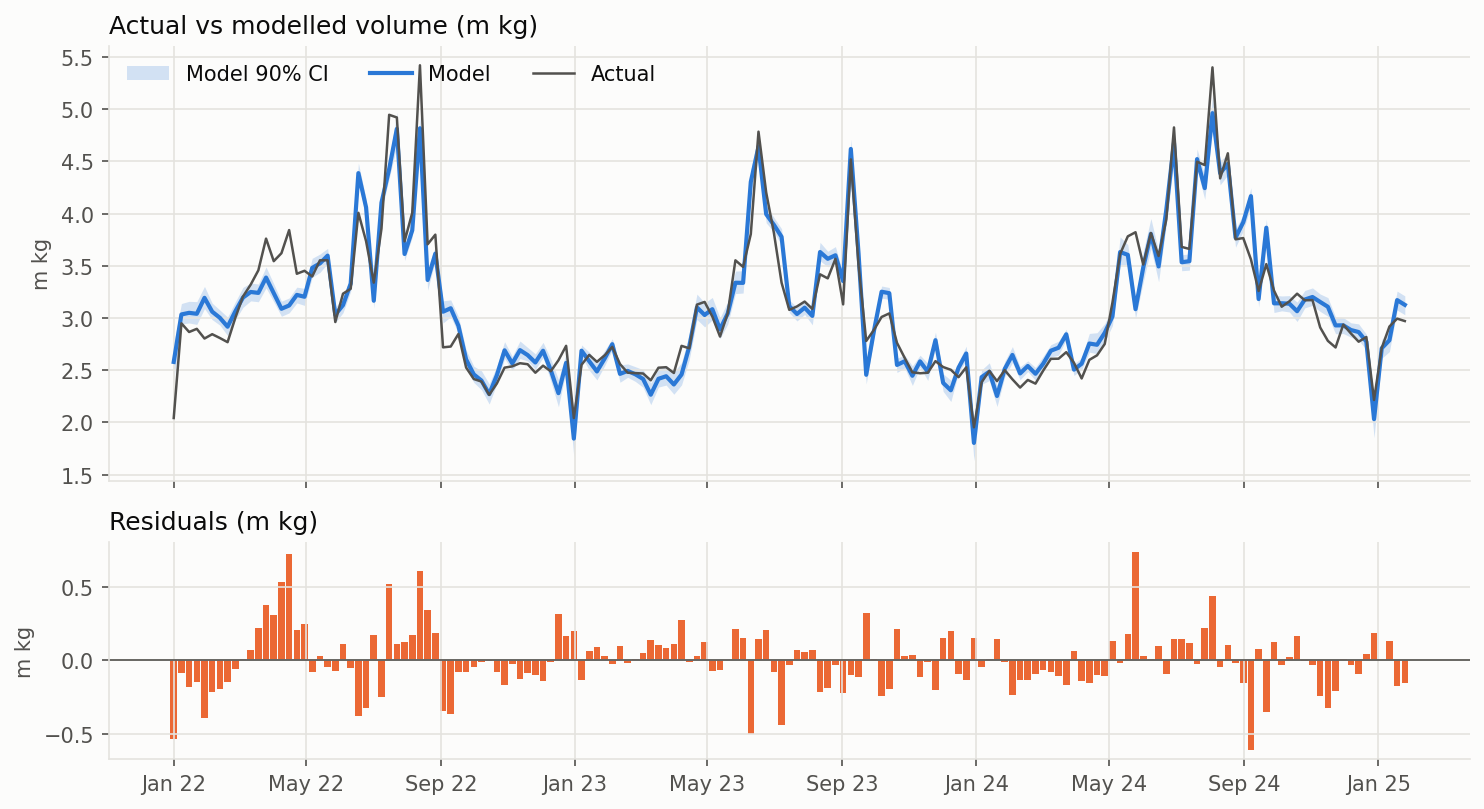
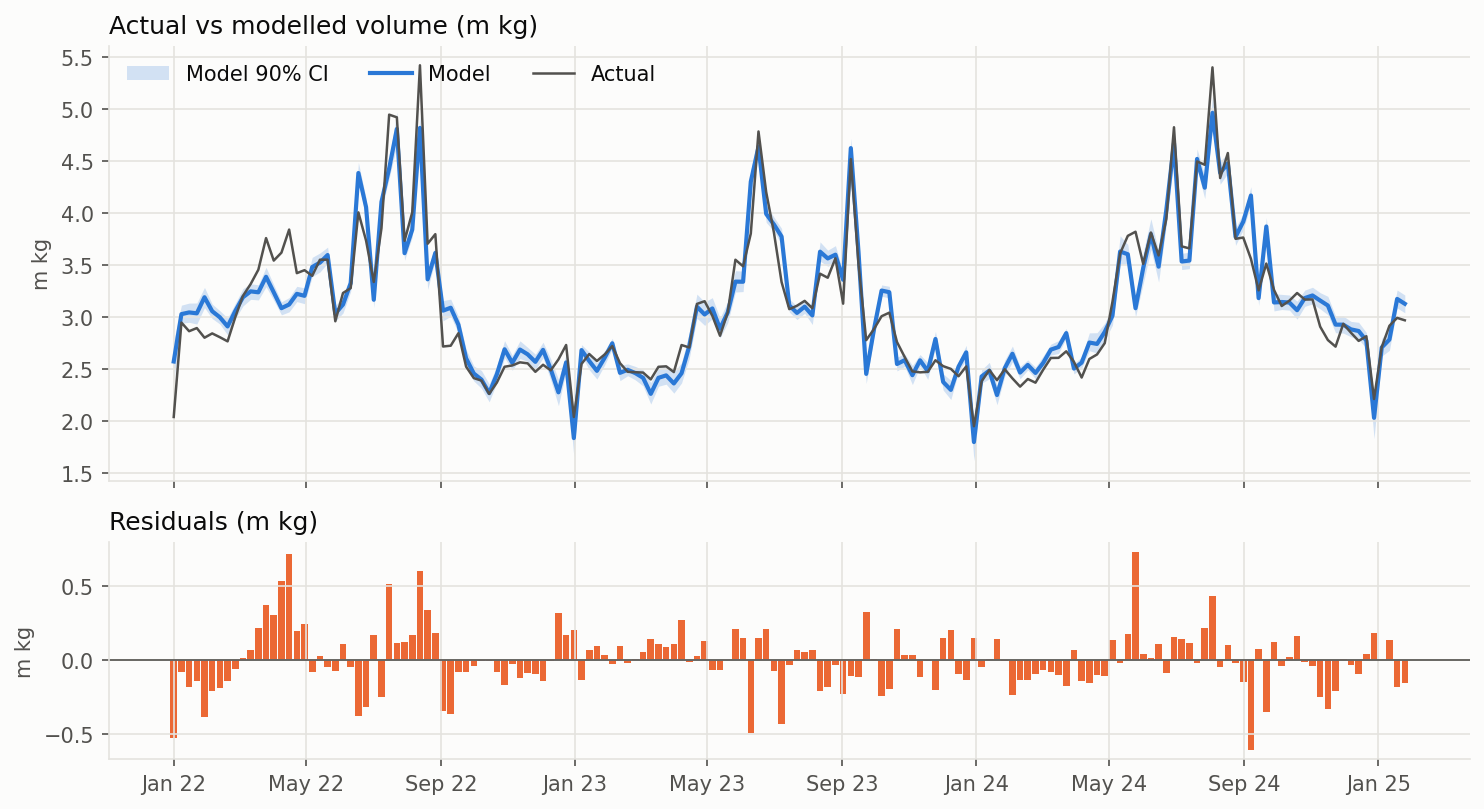
Final Meridian fit, diagnostics and README results
Claude-Session: https://claude.ai/code/session_01PiKdKcjujJqazhK5bYazUC

diff --git a/fmcg_mmm/README.md b/fmcg_mmm/README.md
@@ -27,3 +27,36 @@ python 04_diagnostics.py    # outputs/tables/*, outputs/figures/diag_*, results_
 | Time effect | 1 knot (flat intercept) | Temperature carries seasonality; more knots risk absorbing media |
 
 Dropped on purpose: promo depth (r=0.77 with promo distribution, mechanically tied to base price), promo share of volume (outcome-derived), competitor volume (proxy of category demand, endogenous).
+
+## Diagnostics (full model, 4 chains × 1,000 draws)
+
+| Check | Result |
+|---|---|
+| Convergence | max R-hat 1.003, min bulk ESS > 3,500, 0 divergences |
+| In-sample fit | R² 0.90, MAPE 4.9% |
+| Out-of-sample (last 13 weeks held out) | MAPE 5.8% vs 5.0% train. Test R² is low (0.14) because winter holdout weeks have little variance – MAPE is the meaningful metric here |
+| Residuals | lag-1 autocorrelation 0.33 (remaining – see next steps), no yearly pattern (lag-52 ≈ 0) |
+| Signs | All drivers as expected except competitor media (positive, P=0.97) – read as category expansion |
+| Collinearity | VIF < 5 for all regressors after dropping promo depth |
+
+## Headline results
+
+- **Media drives ~1% of volume.** Total spend £3.5m over 3 years (0.8% of value sales). Blended revenue ROI **£1.31 per £1** (90% CI 0.76–2.06), before margin.
+- **Video and social:** the data narrows the ROI interval (posterior ~0.65–0.70 of the prior width). ROI ≈ 1.0 for video and 0.85 for social.
+- **Partnership, OOH and search/RDM:** the data cannot identify them; the posterior is as wide as or wider than the prior. Their point estimates should not drive budget decisions.
+- **Base business drivers** (contribution measured against each driver's lowest observed level):
+  - distribution **+28%**
+  - temperature **+20%**, plus **+6%** from heatwave weeks
+  - relative price premium **−15%**
+  - promo breadth ~+1% (weak)
+
+## With more time
+
+1. Use impressions/GRPs as the execution metric where available, and a reach & frequency setup for video.
+2. Calibrate ROI priors with lift tests or geo experiments. This is the only real fix for channels with 3–5 active weeks.
+3. Run a geo-level model (Meridian's real strength) if regional sales and media data exist.
+4. Run prior sensitivity (tighter/looser ROI priors), knots sensitivity, and binomial adstock for video.
+5. Fix residual autocorrelation: test a time-varying baseline (AKS knots) against the risk of absorbing media.
+6. Model price and promo properly: price elasticity curve, promo depth × breadth interaction, and the price endogeneity of promo.
+7. Run budget optimisation and response curves (`meridian.analysis.optimizer`) once channel ROIs are better identified.
+8. Measure profit ROI (margin data) and long-term/brand effects.
